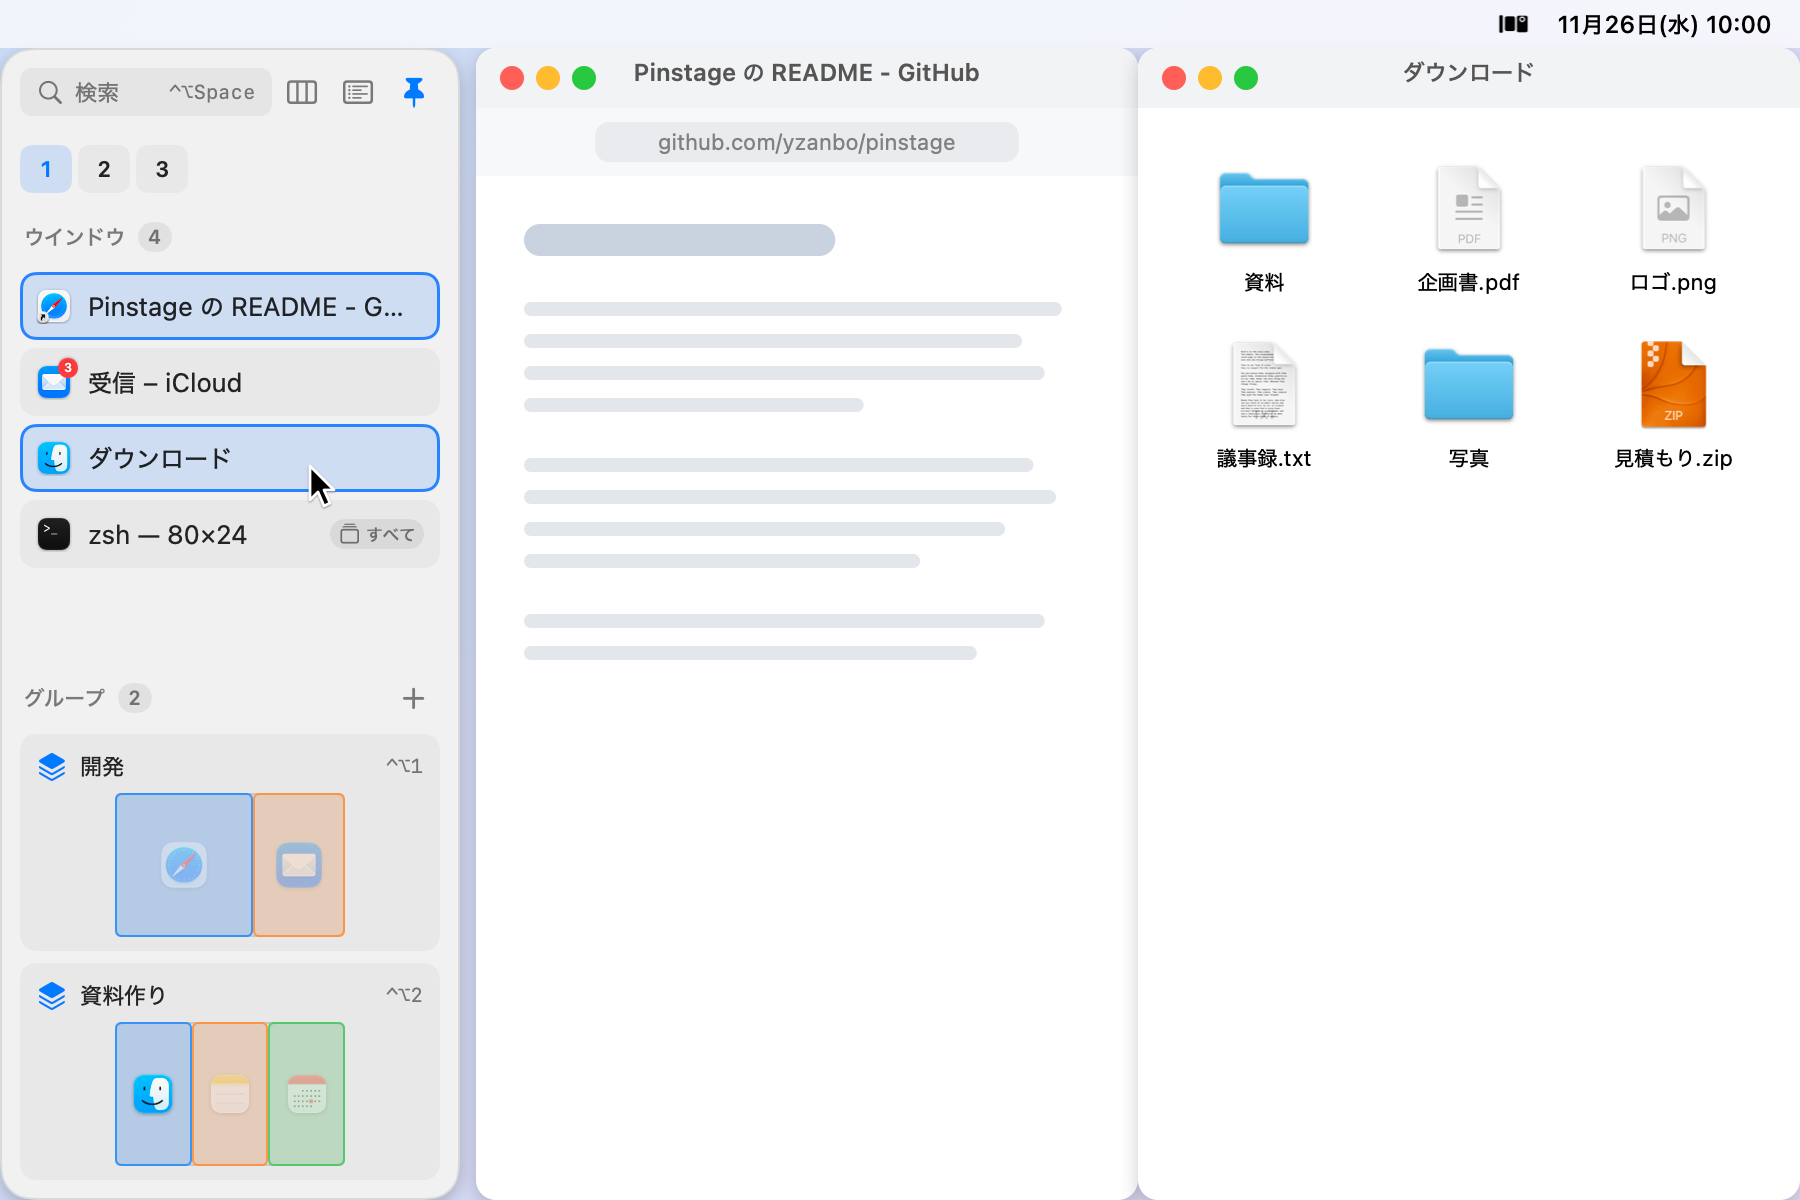
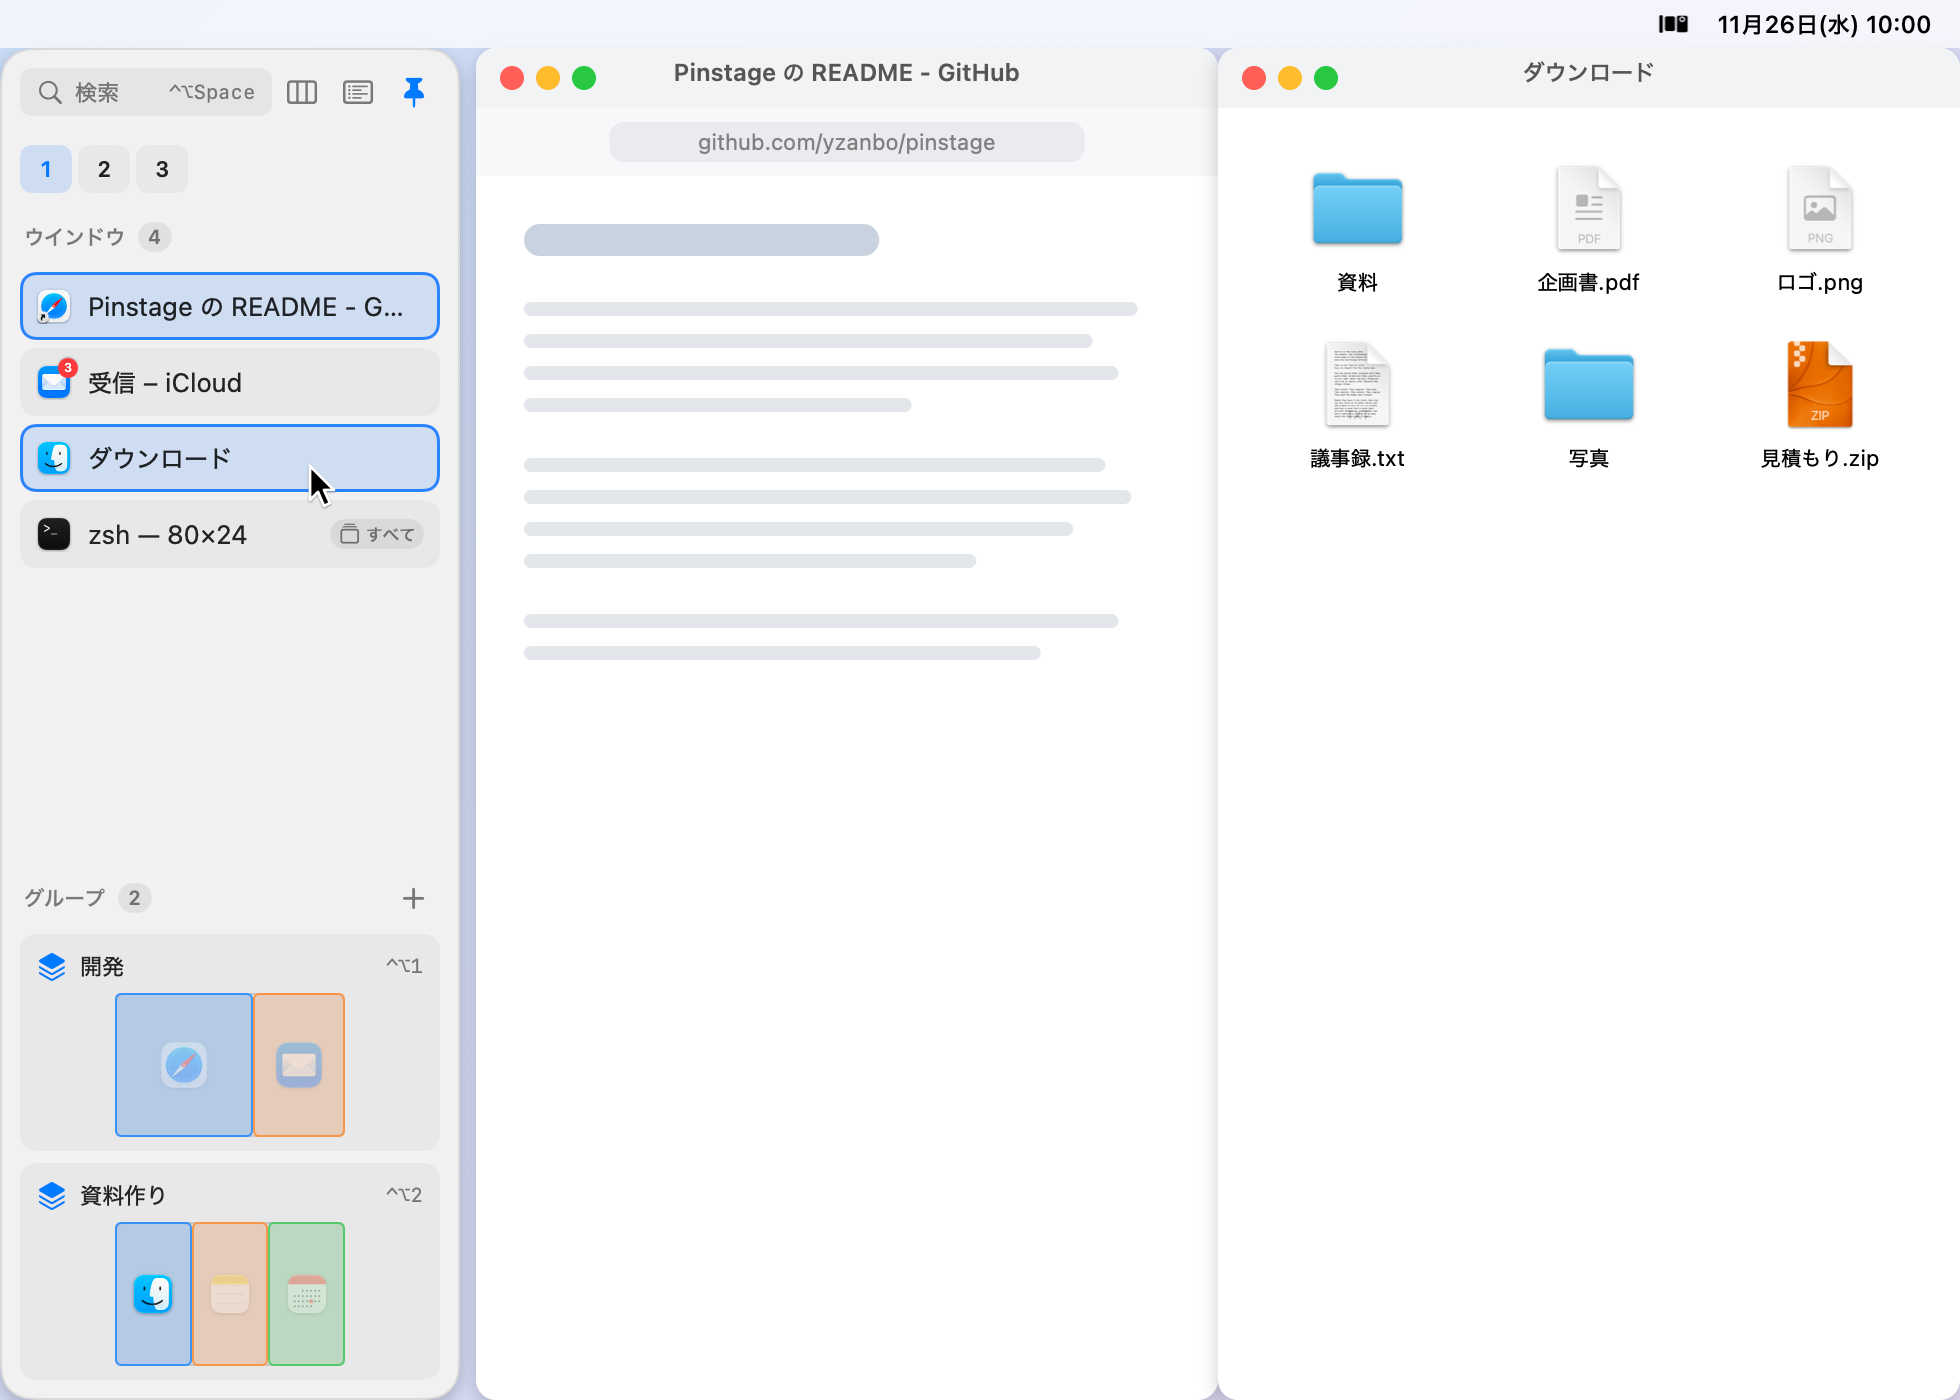
docs: README の画像の大きさを、4 枚とも 980×700 にそろえる
全体の画像と使い方の GIF 3 つで大きさと表示の幅がばらばらで、ウインドウバーの文字の大きさも違って見えていた。
ReadmeImages の大きさを imageSize 1 つにまとめ、README ではどれも幅 800 で載せる。

diff --git a/Pinstage/App/ReadmeImages.swift b/Pinstage/App/ReadmeImages.swift
@@ -19,6 +19,8 @@ import UniformTypeIdentifiers
 enum ReadmeImages {
     /// 2 倍の画素で描く（PNG はそのまま、GIF は 1 倍にして軽くする）
     private static let scale: CGFloat = 2
+    /// 画像の大きさ（README に並べるので、どれも同じにする。ウインドウスイッチャーが収まる幅と、グループが 3 つ並んでもウインドウの一覧が隠れない高さ）
+    private static let imageSize = CGSize(width: 980, height: 700)
 
     static func render(to folder: URL) {
         try? FileManager.default.createDirectory(at: folder, withIntermediateDirectories: true)
@@ -138,7 +140,7 @@ enum ReadmeImages {
         // MARK: hero.png
 
         func hero() throws -> CGImage {
-            let canvas = Canvas(size: CGSize(width: 900, height: 600), scale: ReadmeImages.scale)
+            let canvas = Canvas(size: ReadmeImages.imageSize, scale: ReadmeImages.scale)
             let desk = desk(canvas.size)
             let shot = try strip(selection: [safari, finder], on: desk)
             paint(canvas, strip: shot, windows: placed([safari, finder], on: desk))
@@ -150,7 +152,7 @@ enum ReadmeImages {
         // MARK: arrange.gif
 
         func arrange() throws -> [GIFFrame] {
-            let desk = desk(CGSize(width: 760, height: 560))
+            let desk = desk(ReadmeImages.imageSize)
             let none = try strip(selection: [], on: desk)
             let one = try strip(selection: [safari], on: desk)
             let two = try strip(selection: [safari, finder], on: desk)
@@ -180,7 +182,7 @@ enum ReadmeImages {
         // MARK: groups.gif
 
         func groups() throws -> [GIFFrame] {
-            let desk = desk(CGSize(width: 760, height: 700))
+            let desk = desk(ReadmeImages.imageSize)
             let pair = [safari, finder]
             let develop = sample.groups[0]
             let before = try strip(selection: pair, on: desk)
@@ -236,7 +238,7 @@ enum ReadmeImages {
         // MARK: switcher.gif
 
         func switcher() throws -> [GIFFrame] {
-            let desk = desk(CGSize(width: 980, height: 700))
+            let desk = desk(ReadmeImages.imageSize)
             let pair = [safari, finder]
             let before = try strip(selection: pair, on: desk)
             sample.stage.windowSwitcherSettings.appearance = .icons
